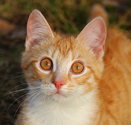
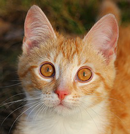
Improved images in the slider

diff --git a/css/style.css b/css/style.css
@@ -279,7 +279,6 @@ p {
 header {
   height: 600px;
   padding-top: 2.5em;
-  background-repeat: no-repeat;
   background-image: url("../images/background.jpg");
   background-repeat: no-repeat;
   background-position: center center;
@@ -290,7 +289,7 @@ header {
   background-size: cover;
 }
 
-/* line 15, C:/Users/Komp Ostrego/Desktop/Coders_lab/final_workshop/scss/partials/_header.scss */
+/* line 14, C:/Users/Komp Ostrego/Desktop/Coders_lab/final_workshop/scss/partials/_header.scss */
 header .greet_message {
   font-family: 'existencelight', sans-serif;
   margin: 0 auto 1.4em auto;
@@ -299,7 +298,7 @@ header .greet_message {
   justify-content: center;
 }
 
-/* line 24, C:/Users/Komp Ostrego/Desktop/Coders_lab/final_workshop/scss/partials/_header.scss */
+/* line 23, C:/Users/Komp Ostrego/Desktop/Coders_lab/final_workshop/scss/partials/_header.scss */
 header .sub_message {
   font-family: 'latohairline', sans-serif;
   display: flex;
@@ -309,19 +308,19 @@ header .sub_message {
   margin: 0 0 1.3em 0;
 }
 
-/* line 31, C:/Users/Komp Ostrego/Desktop/Coders_lab/final_workshop/scss/partials/_header.scss */
+/* line 30, C:/Users/Komp Ostrego/Desktop/Coders_lab/final_workshop/scss/partials/_header.scss */
 header .sub_message h2 {
   color: #ffffff;
   margin: 0 0 0.5em 0;
 }
 
-/* line 35, C:/Users/Komp Ostrego/Desktop/Coders_lab/final_workshop/scss/partials/_header.scss */
+/* line 34, C:/Users/Komp Ostrego/Desktop/Coders_lab/final_workshop/scss/partials/_header.scss */
 header .sub_message h6 {
   color: #ffffff;
   text-align: center;
 }
 
-/* line 44, C:/Users/Komp Ostrego/Desktop/Coders_lab/final_workshop/scss/partials/_header.scss */
+/* line 43, C:/Users/Komp Ostrego/Desktop/Coders_lab/final_workshop/scss/partials/_header.scss */
 header svg:hover .cls-1 {
   fill: #9e459a !important;
   fill-opacity: 1 !important;
@@ -730,7 +729,7 @@ nav .menu_top li a {
 
 /* line 119, C:/Users/Komp Ostrego/Desktop/Coders_lab/final_workshop/scss/partials/_our_team.scss */
 .our_team .members .slide_2 .person_image {
-  background-image: url("../images/me.png");
+  background-image: url("../images/me2.png");
 }
 
 /* line 121, C:/Users/Komp Ostrego/Desktop/Coders_lab/final_workshop/scss/partials/_our_team.scss */
@@ -743,9 +742,12 @@ nav .menu_top li a {
 /* line 128, C:/Users/Komp Ostrego/Desktop/Coders_lab/final_workshop/scss/partials/_our_team.scss */
 .our_team .members .slide_3 .person_image {
   background-image: url("../images/cat.png");
+  /* background-repeat: no-repeat;
+            background-position: center center;
+            background-size: cover; */
 }
 
-/* line 130, C:/Users/Komp Ostrego/Desktop/Coders_lab/final_workshop/scss/partials/_our_team.scss */
+/* line 133, C:/Users/Komp Ostrego/Desktop/Coders_lab/final_workshop/scss/partials/_our_team.scss */
 .our_team .members .slide_3 .person_image:hover {
   opacity: 0.7;
   filter: alpha(opacity=70);
@@ -849,10 +851,10 @@ nav .menu_top li a {
 /* line 13, C:/Users/Komp Ostrego/Desktop/Coders_lab/final_workshop/scss/partials/_quotes.scss */
 .quotes .person_image {
   border-radius: 50%;
-  width: 6em;
-  height: 6em;
+  width: 8em;
+  height: 8em;
   background-color: #cdcdcd;
-  margin: 0 auto 0 auto;
+  margin: 0 auto 1em auto;
 }
 
 /* line 20, C:/Users/Komp Ostrego/Desktop/Coders_lab/final_workshop/scss/partials/_quotes.scss */
@@ -875,7 +877,7 @@ nav .menu_top li a {
 
 /* line 32, C:/Users/Komp Ostrego/Desktop/Coders_lab/final_workshop/scss/partials/_quotes.scss */
 .quotes .carousel_controls {
-  margin: 3em auto 2em auto;
+  margin: 2em auto;
 }
 
 /* line 35, C:/Users/Komp Ostrego/Desktop/Coders_lab/final_workshop/scss/partials/_quotes.scss */
@@ -885,7 +887,7 @@ nav .menu_top li a {
   height: 0.7rem;
   border: 1px solid #777777;
   border-radius: 50%;
-  margin: 0.25em;
+  margin: 0em;
 }
 
 /* line 1, C:/Users/Komp Ostrego/Desktop/Coders_lab/final_workshop/scss/partials/_portfolio.scss */

diff --git a/scss/partials/_our_team.scss b/scss/partials/_our_team.scss
@@ -117,7 +117,7 @@
         }
         .slide_2 {
             .person_image {
-            background-image: url("../images/me.png");
+            background-image: url("../images/me2.png");
             &:hover {
                     opacity: 0.7;
                     filter: alpha(opacity=70); /* For IE8 and earlier */
@@ -127,6 +127,9 @@
         .slide_3 {
             .person_image {
             background-image: url("../images/cat.png");
+           /* background-repeat: no-repeat;
+            background-position: center center;
+            background-size: cover; */   
             &:hover {
                     opacity: 0.7;
                     filter: alpha(opacity=70); /* For IE8 and earlier */

diff --git a/scss/partials/_quotes.scss b/scss/partials/_quotes.scss
@@ -12,10 +12,10 @@
     }
     .person_image {
             border-radius: 50%;
-            width: 6em;
-            height: 6em;
+            width: 8em;
+            height: 8em;
             background-color: #cdcdcd;
-            margin: 0 auto 0 auto;
+            margin: 0 auto 1em auto;
         }
     .main_quote {
         margin-top: 5em;
@@ -30,7 +30,7 @@
         }
     }
     .carousel_controls {
-        margin: 3em auto 2em auto;
+        margin: 2em auto;
     }
     .carousel_selector {
         display: inline-block;
@@ -38,6 +38,6 @@
         height: 0.7rem;
         border: 1px solid #777777;
         border-radius: 50%;
-        margin: 0.25em;
+        margin: 0em;
     }
 }

diff --git a/scss/partials/_header.scss b/scss/partials/_header.scss
@@ -2,7 +2,6 @@ header {
     height: 600px;
     padding-top: 2.5em;
     
-    background-repeat: no-repeat;    
     background-image: url("../images/background.jpg");
     background-repeat: no-repeat;
     background-position: center center;
